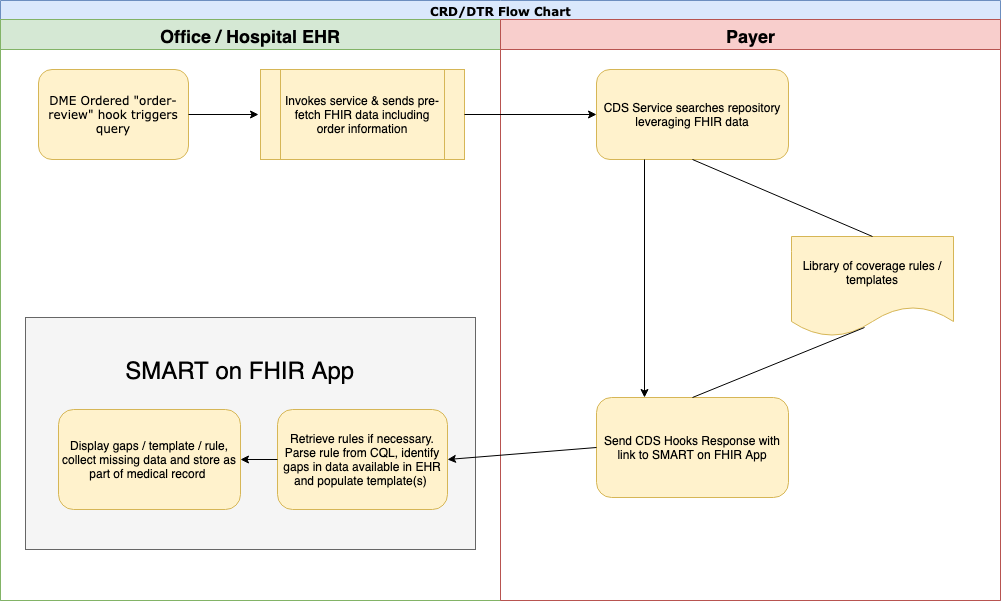
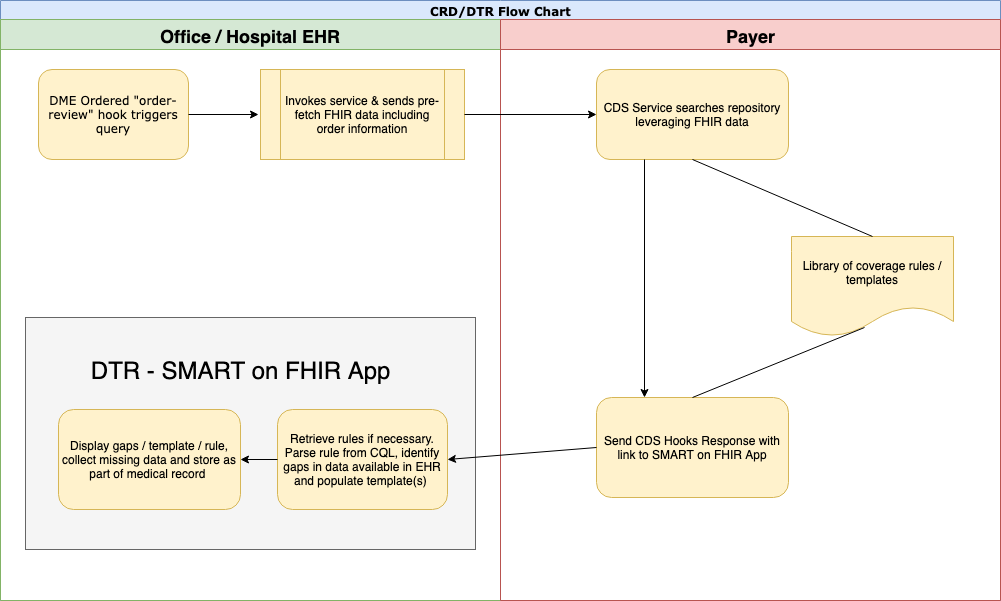
text changes

Changed region(s): [[0.0929, 0.599, 0.4026, 0.629]]

diff --git a/src/pagecontent/specification__behaviors__requesting_additional_information_from_the_user.md b/src/pagecontent/specification__behaviors__requesting_additional_information_from_the_user.md
@@ -1,4 +1,4 @@
-While the goal of Documentation Templates and Rules (DTR) is to automaticallhy gather all of the necessary information to satisfy payer rule and documentation requirements, this is not possible in all cases. When the execution of Clinical Quality Language (CQL) is unable to obtain the required data, it is necessary to prompt the user for input.
+While the goal of Documentation Templates and Rules (DTR) is to automatically gather all of the necessary information to satisfy payer rule and documentation requirements, this is not possible in all cases. When the execution of Clinical Quality Language (CQL) is unable to obtain the required data, it is necessary to prompt the user for input.
 
 ### Questionnaire Rendering
 The DTR application will need to collect information from the user for `item`s in the Questionnaire where the following conditions are met:
@@ -20,20 +20,12 @@ If the `rendering-styleSensitive` extension property is not present or `false` t
 Payers are not required to provide Questionnaires that conform to the Advanced Rendering Questionnaire Profile. When a Questionnaire is provided that does not conform to this profile, it is at the discretion of the DTR application to chose a reasonable presentation of the questions that require user input. The DTR application SHALL use the appropriate input mechanism depending on the `item.type`. Additionally, when working with a FHIR R4 Questionnaire, the DTR application SHALL support `item.answerValueSet` , `item.answerOption` and `item.initial` if provided. When working with a FHIR STU3 Questionnaire, the DTR application SHALL support `item.options` , `item.option` and `item.initial[x]` if provided.
 
 #### Rendering multiple items
-This implementation guide does not place any requirements on the DTR application to display multiple `Questionnaire.item`s to a user at a time or only a single `item`.
-
-> Note to ballot comments
->
-> This is an area the project is explicitly seeking comments on. Please provide
-> your thoughts on what, if any, requirements should be placed on the Substitutable Medical Applications, 
-> Reusable Technologies (SMART) on FHIR application for displaying the questions one at a time or many at once.
-
-We encourage questionnaire design to minimize the number of questions that are necessary to view/complete (e.g. if an answer obviates the need to complete a section, then the section should not appear for completion)
+This implementation guide does not place any requirements on the DTR application to display multiple `Questionnaire.item`s to a user at a time or only a single `item`.  Implementers should decide whether which method of displaying questions makes the sense within their own workflow.  We encourage questionnaire designs that minimize the number of questions that are necessary to view/complete (e.g. if an answer obviates the need to complete a section, then the section should not appear for completion).
 
 ### Provider Attestation
 There may be cases where the CQL provided by a payer was unable to locate information on a patient that is present in the Electronic Health Record (EHR) system. This may be due to the information existing in unstructured notes where it is not able to be easily retrieved by CQL, or it may be in a location that the CQL did not expect. To reduce the burden on the users of the application, DTR provides a mechanism for the user to attest that the information exists in the patient's record, without specifying the exact value or location of the information.
 
-The DTR application SHALL include a mechanism to allow a user to attest the the answer to the presented question exists in the patient's record. This mechanism MAY be an HTML `input` element with the `type` set to `button` or it may be an `a` element. The behavior of these elements SHALL be to record the user's attestation that the information is present in the patient's record.
+The DTR application SHALL include a mechanism to allow a user to attest the answer to the presented question exists in the patient's record. This mechanism MAY be an HTML `input` element with the `type` set to `button` or it may be an `a` element. The behavior of these elements SHALL be to record the user's attestation that the information is present in the patient's record.
 
 When a user provides an attestation, the DTR application SHALL record that in the corresponding QuestionnaireResponse.item. In this case, the DTR application SHALL create an `answer` property on the `item`. The `answer` SHALL have a `valueCoding` that is set to the SNOMED CT code `410515003`, known present. The `item` will also have an `author` extension property which will reference the `fhirUser` provided to the DTR application.
 

diff --git a/src/pagecontent/underlying_technologies.md b/src/pagecontent/underlying_technologies.md
@@ -32,19 +32,19 @@ Implementers should also familiarize themselves with the FHIR resources used wit
 | [QuestionnaireResponse](http://hl7.org/fhir/STU3/questionnaireresponse.html) |[QuestionnaireResponse](http://hl7.org/fhir/R4/questionnaireresponse.html) |
 
 ### US Core
-Clinical systems will use the specification and workflows defined by [US Core](http://www.hl7.org/fhir/us/core/) to initiate Document Template and Rule functionality with the payers. Implementers should be familiar with this specification.
+Clinical systems SHALL use the specification and workflows defined by [US Core](http://www.hl7.org/fhir/us/core/) to initiate Document Template and Rule functionality with the payers. Implementers should be familiar with this specification.
 
-### CDS Hooks
-Clinical systems will use the specification and workflows defined by [Clinical Decision Support (CDS) Hooks](https://cds-hooks.hl7.org) to initiate Document Template and Rule functionality with the payers. Implementers should be familiar with this specification.
+### Clinical Decision Support Hooks
+Clinical systems SHALL use the specification and workflows defined by [Clinical Decision Support (CDS) Hooks](https://cds-hooks.hl7.org) to initiate Document Template and Rule functionality with the payers. Implementers should be familiar with this specification.
 
-### CRD
-Clinical systems will use the specification and workflows defined by [Coverage Requirements Discovery (CRD)](http://hl7.org/fhir/us/davinci-crd/2019May/) to initiate Document Template and Rule functionality with the payers. Implementers should be familiar with this specification.
+### Coverage Requirements Discovery
+Clinical systems SHALL use the specification and workflows defined by [Coverage Requirements Discovery (CRD)](http://hl7.org/fhir/us/davinci-crd/2019May/) to initiate Document Template and Rule functionality with the payers. Implementers should be familiar with this specification.
 
 ### SMART on FHIR
 Client systems conformant to this implementation guide SHALL also serve as a Substitutable Medical Applications, Reusable Technologies (SMART) on FHIR client. This is to allow Document Template and Rule functionality to be invoked outside of regular clinical workflows using a SMART on FHIR application to provide a consistent way of evaluating "what if?" scenarios across EHR implementations. As such client implementers will also need to be familiar with the [SMART on FHIR](http://hl7.org/fhir/smart-app-launch) specification.  Because the SMART on FHIR app will interact with payer systems through the CDS Hooks interface, payer implementers only need to be familiar with the SMART on FHIR specification if they plan to develop SMART apps for launch by CDS Hooks or for other purposes.
 
-### SDC
-Clinical systems will use the specification and workflows defined by [Structured Data Capture (SDC)](http://hl7.org/fhir/us/sdc/) to initiate Document Template and Rule functionality with the payers. Implementers should be familiar with this specification.
+### Structured Data Capture
+Clinical systems SHALL use the specification and workflows defined by [Structured Data Capture (SDC)](http://hl7.org/fhir/us/sdc/) to initiate Document Template and Rule functionality with the payers. Implementers should be familiar with this specification.
 
-### CQL
-Clinical systems will use the specification and workflows defined by [Clinical Quality Language (CQL)](https://cql.hl7.org/STU2/) to initiate Document Template and Rule functionality with the payers. Implementers should be familiar with this specification.
+### Clinical Quality Language
+Clinical systems SHALL use the specification and workflows defined by [Clinical Quality Language (CQL)](https://cql.hl7.org/STU2/) to initiate Document Template and Rule functionality with the payers. Implementers should be familiar with this specification.

diff --git a/src/pagecontent/specification__behaviors__persisting_results.md b/src/pagecontent/specification__behaviors__persisting_results.md
@@ -4,9 +4,9 @@ When the Documentation Templates and Rules (DTR) application has collected all o
 Many EHR Systems do not currently support writing a QuestionnaireResponse into a FHIR server. However, The US Core Implementation Guide (IG) now includes a [DocumentReference Profile](https://build.fhir.org/ig/HL7/US-Core-R4/StructureDefinition-new-us-core-documentreference.html), which allows clients, like the DTR application, to write notes into the EHR System's FHIR server. The following section describes how the QuestionnaireResponse that is generated through the processes described in Section 4.4.3 and Section 4.4.4 can be transformed into text such that it may be persisted as a note in the EHR system.
 
 #### QuestionnaireResponse transformation process
-The DTR application SHALL support transforming a DTR-QuestionnaireResponse resource into a [Portable Document Format](https://www.iso.org/standard/63534.html) (PDF) representation. DTR applications SHALL ensure that the document indicates differences between user supplied information and data gathered from the EHR system.
+The DTR application SHALL support transforming a DTR-QuestionnaireResponse resource into a [Portable Document Format](https://www.iso.org/standard/63534.html) (PDF) representation. DTR applications SHALL ensure that the document indicates whether information that was entered by the provider in reponse to the questionnaire or retrieved from the EHR directly.
 
-The DTR application SHALL create a DocumentReference resource with this information that conforms to the US Core DocumentReference profile. The generated PDF SHALL be recorded in `DocumentReference.content.attachment.data`. `DocumentReference.content.attachment.contentType` SHALL be `application/pdf`
+The DTR application SHALL store this information in the EHR - either as a DocumentReference resource conforming to the US Core profile or in another EHR-appropriate form. The generated PDF SHALL be recorded in `DocumentReference.content.attachment.data`. `DocumentReference.content.attachment.contentType` SHALL be `application/pdf`
 
 > Note to ballot comments
 >
@@ -20,4 +20,4 @@ EHR systems that conform to US Core STU3 allow for the creation of Documentation
 The DTR application creates a QuestionnaireResponse resource through the course of normal operation. This resource may be persisted in the EHR system of the healthcare provider if it is supported. It may also be transmitted to the Payer IT system.
 
 #### Interaction with Payer API
-The Payer IT system should support the FHIR create interaction to allow the DTR application to send the QuestionnaireResponse resource to the payer. The FHIR endpoint for the payer may require authentication. If it is required, it SHALL follow the procedures described in [Section 4.4.1.1](specification__behaviors__retrieval_of_payer_resources.html#authentication-of-smart-on-fhir-application-to-payer-api) - Authentication of SMART on FHIR application to payer API.
+The Payer IT system should support the FHIR create interaction to allow the DTR application to send the QuestionnaireResponse resource to the payer. The FHIR endpoint for the payer may require authentication. If it is required, it SHALL follow the procedures described in [Section 4.4.1](specification__behaviors__retrieval_of_payer_resources.html#authentication-of-smart-on-fhir-application-to-payer-api) - Authentication of SMART on FHIR application to payer API.

diff --git a/src/pagecontent/specification__behaviors__task_creation.md b/src/pagecontent/specification__behaviors__task_creation.md
@@ -1,8 +1,10 @@
-Through interactions with the Documentation Templates and Rules (DTR) application, a user may be prompted with a question that leads to the discovery of a needed action for the desired treatment to proceed. For example, a healthcare provider may be preparing an order for a Continuous Positive Airway Pressure (CPAP) device. In this example, the payer requires that the provider conduct a sleep study that shows a diagnosis of obstructive sleep apnea. While using the DTR application, it prompts the provider that it was unable to find a sleep study in the Electronic Health Record (EHR) system for the patient. The provider realizes that the sleep study has not yet been conducted and would like to generate a task for office staff to schedule a sleep study.
+Through interactions with the Documentation Templates and Rules (DTR) application, a user may be prompted with a question that leads to the discovery of a needed action for the desired treatment to proceed. For example, a healthcare provider may be preparing an order for a Continuous Positive Airway Pressure (CPAP) device. In this example, the payer requires that the provider conduct a sleep study that shows a diagnosis of obstructive sleep apnea. While using the DTR application, it prompts the provider that the CQL execution was unable to find a sleep study in the Electronic Health Record (EHR) system for the patient. The provider can confirm that the sleep study has not yet been conducted and generate a task for office staff to schedule a sleep study directly in the questionnaire interface.  
 
-To facilitate this, the DTR application should allow users to create tasks. The details of the task should be represented by a FHIR Task resource. The DTR application should communicate the task information to the EHR system using the FHIR create interaction.
+To facilitate this, the DTR application should allow users to create tasks. The details of the task should be represented by a FHIR Task resource. The DTR application should communicate the task information to the EHR system using the FHIR create interaction.  The task resource is meant to act as a "todo" item for the clinician or their staff, not substitute an actual order.  
 
 The DTR application should attempt to prepopulate as much of the Task resource as it can based on the context of the application. `Task.description` may draw from the text available in the currently active `Questionnaire.item.text`.
+
+The questionnaire should be able to suspend completion until all tasks are completed.  How the application is suspended is left to the implementer, but the state of the questionnaire should be preserved.  The DTR application launches with a unique `state` id, which could be used to preserve state until the questionnaire resumes.
 
 > Note to ballot comments
 >

diff --git a/src/pagecontent/use_case.md b/src/pagecontent/use_case.md
@@ -10,7 +10,7 @@ The payer Information Technology (IT) system is an innovative approach introduce
 A healthcare provider organization contains medical providers such as hospitals, doctors, etc.
 
 #### EHR System
-The Electronic Health Record (EHR) system shall be the primary system used to initiate the DTR process. The Substitutable Medical Applications, Reusable Technologies (SMART) on FHIR app will typically be initiated from within the EHR.
+The Electronic Medical Record (EMR) system shall be the primary system used to initiate the DTR process. The Substitutable Medical Applications, Reusable Technologies (SMART) on FHIR app will typically be initiated from within the EMR.
 
 #### DTR compliant SMART on FHIR app
 Within Documentation Templates and Rules (DTR) the SMART on FHIR app is considered a key component because of the inherent nature of SMART on FHIR apps, namely the ability to call into backend systems such as payers using the [SMART launch protocol](http://www.hl7.org/fhir/smart-app-launch/) and [FHIR](https://www.hl7.org/fhir/) as well as the ability to run rules such as [Clinical Quality Language (CQL)](https://cql.hl7.org/STU2/). This functionality will enable DTR to gather documents and templates, retrieve FHIR resources from EHRs, and run rules to reduce the time involved in the Documentation Requirements Lookup Service (DRLS) process.
@@ -18,9 +18,9 @@ Within Documentation Templates and Rules (DTR) the SMART on FHIR app is consider
 #### Users (clinicians and office staff)
 Users or Providers are challenged to deal with the diversity of administrative and clinical requirements that impact documenting the need for treatment and selecting the appropriate best path for care. The current environment is made more complex by the large number of payer-based requirements that must be met to document that covered services and devices are medically necessary and appropriate.
 
-The goal of this use case is to reduce user or provider burden and simplify processes by establishing electronic versions of administrative and clinical requirements that can become part of the providers daily workflow.
+The goal of this use case is to reduce user or provider burden and simplify processes by establishing electronic versions of administrative and clinical requirements that can become part of the provider's daily workflow.
 
-### Relation to CRD
+### Relation to Coverage Requirements Discovery (CRD)
 [Coverage Requirements Discovery (CRD)](http://hl7.org/fhir/us/davinci-crd/2019May/) addresses the bulleted items below with some DTR overlap:
 
 * updated coverage information

diff --git a/src/pagecontent/specification__behaviors__privacy_safety_and_security.md b/src/pagecontent/specification__behaviors__privacy_safety_and_security.md
@@ -1,7 +1,7 @@
 Guidance and conformance expectations around privacy and security are provided by all three specifications this implementation guide relies on. Implementers SHALL be familiar with and adhere to any security and privacy rules defined by:
 
 * FHIR core: [Security & Privacy module]({{site.data.fhir.path}}secpriv-module.html), [Security Principles]({{site.data.fhir.path}}security.html) and [Implementer's Checklist]({{site.data.fhir.path}}safety.html)
-* CDS Hooks: [Security & Safety](https://cds-hooks.hl7.org/specification/1.0/#security-and-safety)
+* CDS Hooks: [Security & Safety](https://cds-hooks.hl7.org/1.0/#security-and-safety)
 * SMART on FHIR: [SMART App Launch](http://www.hl7.org/fhir/smart-app-launch)
 
 If the Documentation Templates and Rules (DTR) / Substitutable Medical Applications, Reusable Technologies (SMART) on FHIR application is executed using an app, the app will only have access to data specifically authorized by the organization as appropriate for use.
@@ -17,9 +17,4 @@ Some SMART on FHIR applications are browser based, such as those conforming to t
 
 Other SMART on FHIR applications are server based, such as those conforming to the [confidential app profile](http://hl7.org/fhir/smart-app-launch/#use-the-confidential-app--profile-if-your-app-is-able-to-protect-a-client_secret). In this case, patient data will be requested by the server hosting the DTR application. This may be external to the provider organization.
 
-> Note to ballot comments
->
-> This is an area the project is explicitly seeking comments on. Thoughts on the whether
-> EHR systems should be required to support specific SMART on FHIR application profiles
-> or comments on restrictions that should be applied to what payer organizations may do
-> with any received patient information are welcome.
+Payer systems SHALL use information received solely for purpose for which the documentation template was created (typically processing of a specific claim or prior authorization request) and SHALL NOT use information received over the DTR interfaces for any additional purposes other than audit.

diff --git a/src/pagecontent/specification__behaviors__retrieval_of_payer_resources.md b/src/pagecontent/specification__behaviors__retrieval_of_payer_resources.md
@@ -2,12 +2,14 @@ The Documentation Templates and Rules (DTR) application will need to retrieve re
 
 | Field | Optionality | Type | Description |
 | ----- | ----------- | ---- | ----------- |
-| fhirAuthorization | OPTIONAL | *object* | A structure holding an OAuth 2.0 bearer access token granting the DTR Application access to payer FHIR resources, along with supplemental information relating to the token. |
-| template | REQUIRED | *string* | The URL of the Questionnaire for the DTR application to use for execution. |
+| filePath | OPTIONAL | *string* | The base URL for the questionnaire and related CQL resources. If left blank the app should use a default base URL. |
+| template | REQUIRED | *string* | The id of the Questionnaire for the DTR application to use for execution. |
 | request | REQUIRED | *object* | A copy of the draft request resource for which documentation requirements are being gathered. |
 
+TODO: Figure out if passing the object is a security violation - and if so, figure out how to manage it.
+
 ### Authentication of SMART on FHIR application to payer API
-Payers may require the DTR application to authenticate in order to retrieve resources. In the case that authentication is required, the following JSON structure SHALL be populated by the payer system. This JSON is based on the structure for [FHIR Authorization in CDS Hooks](https://cds-hooks.hl7.org/ballots/2018May/specification/1.0/#fhir-resource-access).
+Payers may require the DTR application to authenticate in order to retrieve resources. In the case that authentication is required, the following JSON structure SHALL be populated by the payer system. This JSON is based on the structure for [FHIR Authorization in CDS Hooks](https://cds-hooks.hl7.org/1.0/#fhir-resource-access).
 
 | Field | Optionality | Type | Description |
 | ----- | ----------- | ---- | ----------- |

diff --git a/src/pagecontent/specification__behaviors__persisting_application_state.md b/src/pagecontent/specification__behaviors__persisting_application_state.md
@@ -24,7 +24,7 @@ The DTR application is initially launched in response to a Coverage Requirements
 
 The DTR application usage session binds this set of orders and patient to a particular user. When persisting application state, it is the responsibility of the DTR application to record the relationship between the orders, patient and user.
 
-The DTR application may be launched outside the context of a Coverage Requirements Discovery (CRD) request, at which point, it must be able to restore a usage session. This will be covered in detail in Section 4.4.8 - Launch outside of CRD
+The DTR application may be launched outside the context of a Coverage Requirements Discovery (CRD) request, at which point, it must be able to restore a usage session. This will be covered in detail in [Section 4.4.8](specification__behaviors__launch_outside_of_CRD.html) - Launch outside of CRD
 
 #### Visibility of Usage Sessions to Other Users
 Depending on workflows within an organization, it may be desirable for one user to start a usage session, but for it to be completed by another user. Rules for which users of a DTR application should be authorized to see information on a particular set of patients are outside the scope of this implementation guide.

diff --git a/src/pagecontent/index.md b/src/pagecontent/index.md
@@ -7,7 +7,7 @@ This IG leverages Clinical Quality Language (CQL) to allow payers to inspect a p
 
 ### Content and Organization
 The implementation guide is organized into the following sections:
-* [Use Case](use_case.html) Provides examples of how this specification can be used by provider and payor organizations.
+* [Use Case](use_case.html) Provides examples of how this specification can be used by provider and payer organizations.
 * [Underlying Technologies](underlying_technologies.html) Describes the underlying technologies this specification builds upon.
 * [Specification](specification.html) Provides the technical conformance details for the specification.
 * [Resources](resources.html) Introduces and provides links to the FHIR profiles.

diff --git a/src/pagecontent/specification__cds_hooks.md b/src/pagecontent/specification__cds_hooks.md
@@ -1,5 +1,5 @@
 ### Use of Card.links
-One entry point into the Documentation Templates and Rules (DTR) application is launching from a [Clinical Decision Support (CDS) Hooks Card](https://cds-hooks.hl7.org/ballots/2018May/specification/1.0/#card-attributes). 
+One entry point into the Documentation Templates and Rules (DTR) application is launching from a [Clinical Decision Support (CDS) Hooks Card](https://cds-hooks.hl7.org/1.0/#card-attributes). 
 
 DTR applications SHOULD, to the extent possible, capture and return information that is relevant to the specific use case. 
 

diff --git a/src/pagecontent/specification.md b/src/pagecontent/specification.md
@@ -1,3 +1,5 @@
+This section of the implementation guide defines the guidelines of app behavior and information on how to implement the technologies required to build a conformant app.
+
 * [Profiles](specification__profiles.html)
 
 * [CDS Hooks](specification__cds_hooks.html)
